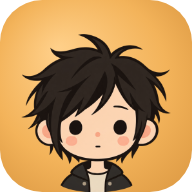
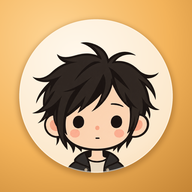
头像图标改为外框加内圆、人物居中（v3.14.2）
旧图标把去底头像压在琥珀方块上并下移 14%，人物偏下。改为自带琥珀外框与浅色内圆的完整图标，前台与后台品牌标记不再叠加底色和偏移；图片引用加版本号避免缓存。

Claude-Session: https://claude.ai/code/session_01DxF599FULx8kT6Ch4pjp6T

diff --git a/admin-server/src/lib/html.js b/admin-server/src/lib/html.js
@@ -70,7 +70,7 @@ function layout({ title, content, authenticated = false, csrfToken = '' }) {
   <meta charset="utf-8">
   <meta name="viewport" content="width=device-width, initial-scale=1">
   <title>${escapeHtml(title)}｜知了hub 管理后台</title>
-  <link rel="icon" type="image/png" sizes="32x32" href="/assets/brand/favicon-32.png">
+  <link rel="icon" type="image/png" sizes="32x32" href="/assets/brand/favicon-32.png?v=20260930">
   <style>
     :root {
       color-scheme: dark;
@@ -661,8 +661,8 @@ function layout({ title, content, authenticated = false, csrfToken = '' }) {
     }
     body::after { position: fixed; inset: 0; z-index: 60; background-image: url("/assets/grain.svg"); background-size: 180px 180px; mix-blend-mode: overlay; opacity: 0.05; content: ""; pointer-events: none; }
     body > header { background: rgba(9, 9, 11, 0.78); }
-    .admin-brand .brand-mark { overflow: hidden; }
-    .admin-brand .brand-mark img { width: 92%; height: auto; margin-top: 14%; }
+    .admin-brand .brand-mark { display: block; overflow: hidden; border-radius: 22.5%; background: none; }
+    .admin-brand .brand-mark img { display: block; width: 100%; height: 100%; }
     .admin-brand strong { font-family: var(--font-display); font-weight: 900; letter-spacing: -0.01em; }
     nav a[aria-current="page"] { position: relative; }
     nav a[aria-current="page"]::after { position: absolute; right: 0; bottom: -8px; left: 0; height: 1px; background: linear-gradient(90deg, transparent, var(--acid)); box-shadow: 0 0 8px var(--amber-glow); content: ""; }
@@ -704,7 +704,7 @@ function layout({ title, content, authenticated = false, csrfToken = '' }) {
   </style>
 </head>
 <body>
-  <header><a class="admin-brand" href="/admin" aria-label="知了hub 管理后台"><span class="brand-mark" aria-hidden="true"><img src="/assets/brand/avatar-128.webp" width="128" height="128" alt="" decoding="async"></span><span><strong>知了hub</strong><small>PERSONAL ARCHIVE / 编辑室</small></span></a>${navigation}</header>
+  <header><a class="admin-brand" href="/admin" aria-label="知了hub 管理后台"><span class="brand-mark" aria-hidden="true"><img src="/assets/brand/avatar-128.webp?v=20260930" width="128" height="128" alt="" decoding="async"></span><span><strong>知了hub</strong><small>PERSONAL ARCHIVE / 编辑室</small></span></a>${navigation}</header>
   <main>${content}</main>
   ${authenticated ? '<script src="/admin/navigation.js" defer></script>' : ''}
 </body>

diff --git a/index.html b/index.html
@@ -6,11 +6,11 @@
     <meta name="description" content="知了hub——把好奇心做成看得见的作品。">
     <meta name="theme-color" content="#09090b">
     <title>知了hub｜个人作品与学习记录</title>
-    <link rel="icon" type="image/png" sizes="32x32" href="assets/brand/favicon-32.png">
-    <link rel="apple-touch-icon" href="assets/brand/apple-touch-icon.png">
-    <link rel="stylesheet" href="css/style.css?v=lamp-node-20260928">
-    <script src="js/site.js?v=lamp-node-20260928" defer></script>
-    <script src="js/particles.js?v=lamp-node-20260928" defer></script>
+    <link rel="icon" type="image/png" sizes="32x32" href="assets/brand/favicon-32.png?v=20260930">
+    <link rel="apple-touch-icon" href="assets/brand/apple-touch-icon.png?v=20260930">
+    <link rel="stylesheet" href="css/style.css?v=lamp-node-20260930">
+    <script src="js/site.js?v=lamp-node-20260930" defer></script>
+    <script src="js/particles.js?v=lamp-node-20260930" defer></script>
   </head>
   <body class="home-page">
     <a class="skip-link" href="#main-content">跳到主要内容</a>
@@ -18,7 +18,7 @@
     <header class="site-header">
       <div class="header-inner">
         <a class="brand" href="index.html" aria-label="知了hub 首页">
-          <span class="brand-mark" aria-hidden="true"><img src="assets/brand/avatar-128.webp" width="128" height="128" alt="" decoding="async"></span>
+          <span class="brand-mark" aria-hidden="true"><img src="assets/brand/avatar-128.webp?v=20260930" width="128" height="128" alt="" decoding="async"></span>
           <span class="brand-copy">
             <strong>知了hub</strong>
             <small>PERSONAL ARCHIVE</small>

diff --git a/assets/errors/403.html b/assets/errors/403.html
@@ -6,12 +6,12 @@
   <meta name="robots" content="noindex">
   <meta name="theme-color" content="#09090b">
   <title>403 · 这里暂时不能访问｜知了hub</title>
-  <link rel="icon" type="image/png" sizes="32x32" href="/assets/brand/favicon-32.png">
-  <link rel="apple-touch-icon" href="/assets/brand/apple-touch-icon.png">
-  <link rel="stylesheet" href="/css/style.css?v=lamp-node-20260928">
+  <link rel="icon" type="image/png" sizes="32x32" href="/assets/brand/favicon-32.png?v=20260930">
+  <link rel="apple-touch-icon" href="/assets/brand/apple-touch-icon.png?v=20260930">
+  <link rel="stylesheet" href="/css/style.css?v=lamp-node-20260930">
 </head>
 <body class="archive-page">
-  <header class="site-header"><div class="header-inner"><a class="brand" href="/index.html" aria-label="知了hub 首页"><span class="brand-mark" aria-hidden="true"><img src="/assets/brand/avatar-128.webp" width="128" height="128" alt="" decoding="async"></span><span class="brand-copy"><strong>知了hub</strong><small>PERSONAL ARCHIVE</small></span></a></div></header>
+  <header class="site-header"><div class="header-inner"><a class="brand" href="/index.html" aria-label="知了hub 首页"><span class="brand-mark" aria-hidden="true"><img src="/assets/brand/avatar-128.webp?v=20260930" width="128" height="128" alt="" decoding="async"></span><span class="brand-copy"><strong>知了hub</strong><small>PERSONAL ARCHIVE</small></span></a></div></header>
   <main class="page-hero error-hero">
     <p class="archive-number">403 / PERSONAL ARCHIVE</p>
     <h1>这里暂时不能访问</h1>

diff --git a/assets/errors/404.html b/assets/errors/404.html
@@ -6,12 +6,12 @@
   <meta name="robots" content="noindex">
   <meta name="theme-color" content="#09090b">
   <title>404 · 这条路还没有内容｜知了hub</title>
-  <link rel="icon" type="image/png" sizes="32x32" href="/assets/brand/favicon-32.png">
-  <link rel="apple-touch-icon" href="/assets/brand/apple-touch-icon.png">
-  <link rel="stylesheet" href="/css/style.css?v=lamp-node-20260928">
+  <link rel="icon" type="image/png" sizes="32x32" href="/assets/brand/favicon-32.png?v=20260930">
+  <link rel="apple-touch-icon" href="/assets/brand/apple-touch-icon.png?v=20260930">
+  <link rel="stylesheet" href="/css/style.css?v=lamp-node-20260930">
 </head>
 <body class="archive-page">
-  <header class="site-header"><div class="header-inner"><a class="brand" href="/index.html" aria-label="知了hub 首页"><span class="brand-mark" aria-hidden="true"><img src="/assets/brand/avatar-128.webp" width="128" height="128" alt="" decoding="async"></span><span class="brand-copy"><strong>知了hub</strong><small>PERSONAL ARCHIVE</small></span></a></div></header>
+  <header class="site-header"><div class="header-inner"><a class="brand" href="/index.html" aria-label="知了hub 首页"><span class="brand-mark" aria-hidden="true"><img src="/assets/brand/avatar-128.webp?v=20260930" width="128" height="128" alt="" decoding="async"></span><span class="brand-copy"><strong>知了hub</strong><small>PERSONAL ARCHIVE</small></span></a></div></header>
   <main class="page-hero error-hero">
     <p class="archive-number">404 / PERSONAL ARCHIVE</p>
     <h1>这条路还没有内容</h1>

diff --git a/css/style.css b/css/style.css
@@ -241,22 +241,21 @@ canvas {
 }
 
 .brand-mark {
-  display: grid;
+  display: block;
   width: 38px;
   height: 38px;
   flex: 0 0 auto;
-  place-items: center;
-  border-radius: 12px;
-  background: radial-gradient(circle at 30% 25%, var(--amber-hot), var(--amber) 55%, var(--amber-deep));
+  border-radius: 22.5%;
+  /* 图标自带外框与内圆，这里只保留光晕 */
   box-shadow: 0 0 0 1px rgba(255, 208, 138, 0.35), 0 0 22px var(--amber-glow);
   overflow: hidden;
   transition: transform 300ms var(--ease), box-shadow 300ms var(--ease);
 }
 
 .brand-mark img {
-  width: 92%;
-  height: auto;
-  margin-top: 14%;
+  display: block;
+  width: 100%;
+  height: 100%;
 }
 
 .brand:hover .brand-mark {

diff --git a/CHANGELOG.md b/CHANGELOG.md
@@ -1,7 +1,17 @@
 # 知了hub 改动记录
 > 每轮完成改动后在此追加记录（新条目追加在**最前**，本文件为新在前的倒序）。
 > 纯文档/流程整理的三段式补丁存档同样需要记录，不得省略。
-> **最后追加：2026-09-28**
+> **最后追加：2026-09-30**
+
+## v3.14.2 —— 补丁（x.y.Z）：头像图标改为「外框 + 内圆」，人物居中
+
+- **问题**：人物在旧图标里偏下：旧版是把去底头像直接压在琥珀圆角方块上，并靠 `margin-top: 14%`（Flutter 为底部对齐）把肩膀贴到底边，视觉重心明显偏低。
+- **修复**：参考豆包式「外框 + 内圆」：琥珀渐变圆角方块外框（圆角 22.5%），中间浅奶油色内圆（直径 80%），人物头部居中、肩膀被内圆底边裁切；由同一张 1024px 母版导出各尺寸，图标自带底色，所以各端不再叠加底色、边框、内边距或偏移。
+  - `assets/brand/` 重新导出 `avatar-128.webp`、`avatar-256.webp`、`favicon-32.png`（带圆角透明边）与 `apple-touch-icon.png`、`icon-192.png`（满版方形，交给系统裁圆角）。
+  - `css/style.css` 的 `.brand-mark` 与 `admin-server/src/lib/html.js` 后台同名规则：去掉底色与图片偏移，图片铺满，圆角 22.5%，保留光晕。
+  - 头像、网页标签图标引用加 `?v=20260930`，样式与脚本版本号改为 `lamp-node-20260930`，避免浏览器沿用旧图。
+- **证据**：admin-server `npm test` 178/178，`js/*.js` 通过 `node --check`；本地渲染首页与后台，品牌标记 38/40px 显示完整、人物居中。
+- **部署影响**：拷贝静态文件并重启 admin-server，然后在后台执行一次全量发布（作品页等页面头部由模板生成，要重新生成才会带上新版本号）。
 
 ## v3.14.1 —— 补丁（x.y.Z）：后台首页与作品编辑页版头文字贴边
 
